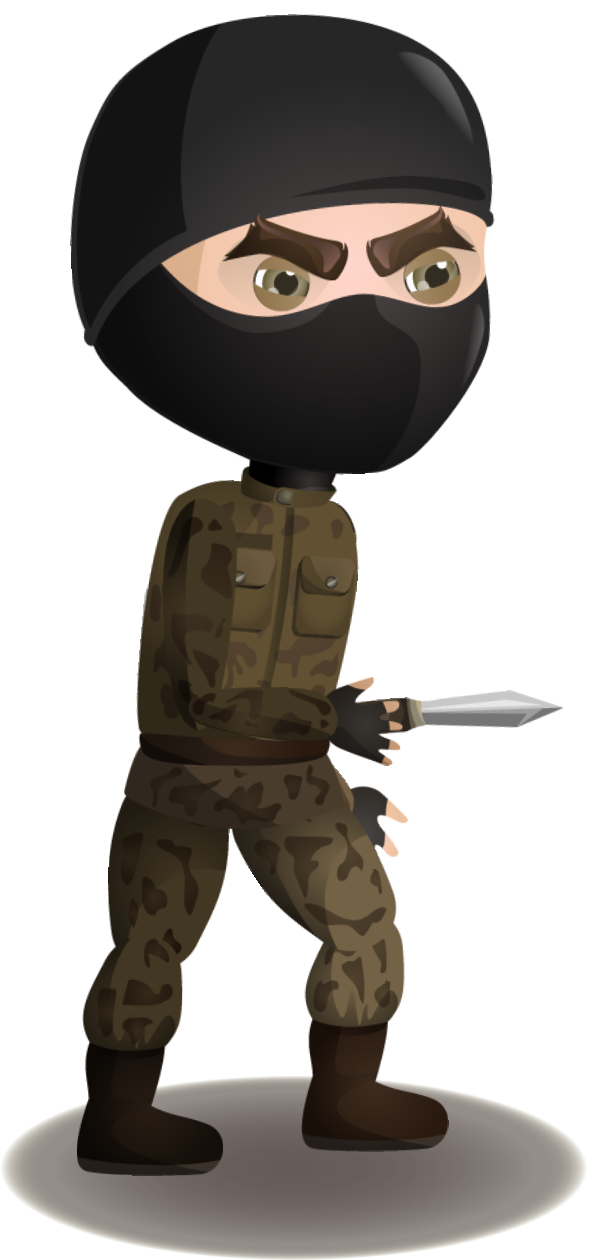
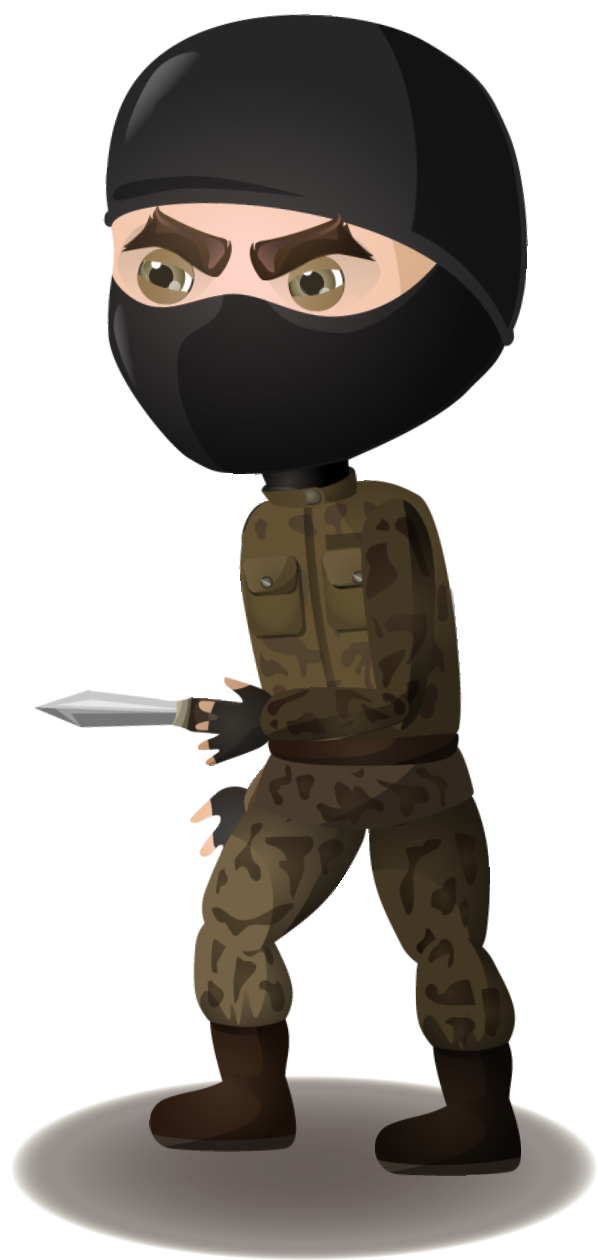
endboss

diff --git a/models/endboss.class.js b/models/endboss.class.js
@@ -1,1 +1,27 @@
-class Endboss extends MovableObject {}
+class Endboss extends MovableObject {
+  y = 170;
+  height = 300;
+  width = 150;
+
+  IMAGES_WALKING = [
+    "img/gangster/png/3/Attack3/3_terrorist_3_Attack3_000.png",
+    "img/gangster/png/3/Attack3/3_terrorist_3_Attack3_001.png",
+    "img/gangster/png/3/Attack3/3_terrorist_3_Attack3_002.png",
+    "img/gangster/png/3/Attack3/3_terrorist_3_Attack3_003.png",
+    "img/gangster/png/3/Attack3/3_terrorist_3_Attack3_004.png",
+    "img/gangster/png/3/Attack3/3_terrorist_3_Attack3_005.png",
+  ];
+
+  constructor() {
+    super().loadImage(this.IMAGES_WALKING[0]);
+    this.loadImages(this.IMAGES_WALKING);
+    this.x = 500;
+    this.animate();
+  }
+
+  animate() {
+    setInterval(() => {
+      this.playAnimation(this.IMAGES_WALKING);
+    }, 100);
+  }
+}

diff --git a/models/character.class.js b/models/character.class.js
@@ -40,13 +40,7 @@ class Character extends MovableObject {
 
     setInterval(() => {
       if (this.world.keyboard.RIGHT || this.world.keyboard.LEFT) {
-        // WALK ANIMATION
-        // % - is the rest modulo
-        let i = this.currentImage % this.IMAGES_WALKING.length; // let i = 8 % 7; => 1, Rest 1 =>
-        // i = 0, 1, 2, 3, 4, 5, 6 , 7, 0, 1, 2, 3, 4, 5, 6, 7, 0
-        let path = this.IMAGES_WALKING[i];
-        this.img = this.imageCache[path];
-        this.currentImage++;
+        this.playAnimation(this.IMAGES_WALKING);
       }
     }, 50);
   }

diff --git a/models/movable-object.class.js b/models/movable-object.class.js
@@ -27,6 +27,16 @@ class MovableObject {
     });
   }
 
+  playAnimation(images) {
+    // WALK ANIMATION
+    // % - is the rest modulo
+    let i = this.currentImage % this.IMAGES_WALKING.length; // let i = 8 % 7; => 1, Rest 1 =>
+    // i = 0, 1, 2, 3, 4, 5, 6 , 7, 0, 1, 2, 3, 4, 5, 6, 7, 0
+    let path = images[i];
+    this.img = this.imageCache[path];
+    this.currentImage++;
+  }
+
   moveRight() {
     console.log("Moving right");
   }

diff --git a/models/gangster.class.js b/models/gangster.class.js
@@ -24,11 +24,9 @@ class Gangster extends MovableObject {
 
   animate() {
     this.moveLeft();
+
     setInterval(() => {
-      let i = this.currentImage % this.IMAGES_WALKING.length;
-      let path = this.IMAGES_WALKING[i];
-      this.img = this.imageCache[path];
-      this.currentImage++;
+      this.playAnimation(this.IMAGES_WALKING);
     }, 100);
   }
 }

diff --git a/levels/level1.js b/levels/level1.js
@@ -1,5 +1,5 @@
 const level1 = new Level(
-  [new Gangster(), new Gangster(), new Gangster()],
+  [new Gangster(), new Gangster(), new Gangster(), new Endboss()],
   [new cloud()],
   [
     new BackgroundObject("img/background/PNG/City2/Bright/Sky.png", -720),
